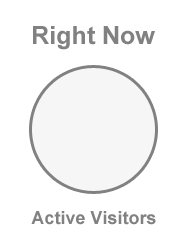
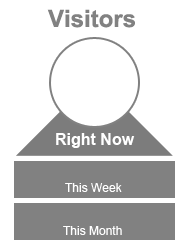
osharvard theme. new css and bg image for realtime block.

diff --git a/openscholar/themes/custom/osharvard_theme/css/osharvard_theme.css b/openscholar/themes/custom/osharvard_theme/css/osharvard_theme.css
@@ -380,12 +380,26 @@ line-height: 24px;
 }
 
 .ossap-stats-real-time-visitors {
-font-size: 3em;
+font-size: 2.5em;
 color: #818181;
 display: block;
-margin: 115px auto;
+margin: 70px auto 0 auto;
 text-align: center;
 font-weight: bold;
+}
+
+.ossap-stats-real-time-week,
+.ossap-stats-real-time-month {
+font-size: 1.25em;
+color: #FFF;
+display: block;
+text-align: center;
+font-weight: bold;
+margin-top: 67px;
+}
+
+.ossap-stats-real-time-month {
+margin-top: 20px;
 }
 
 #osactivity,
